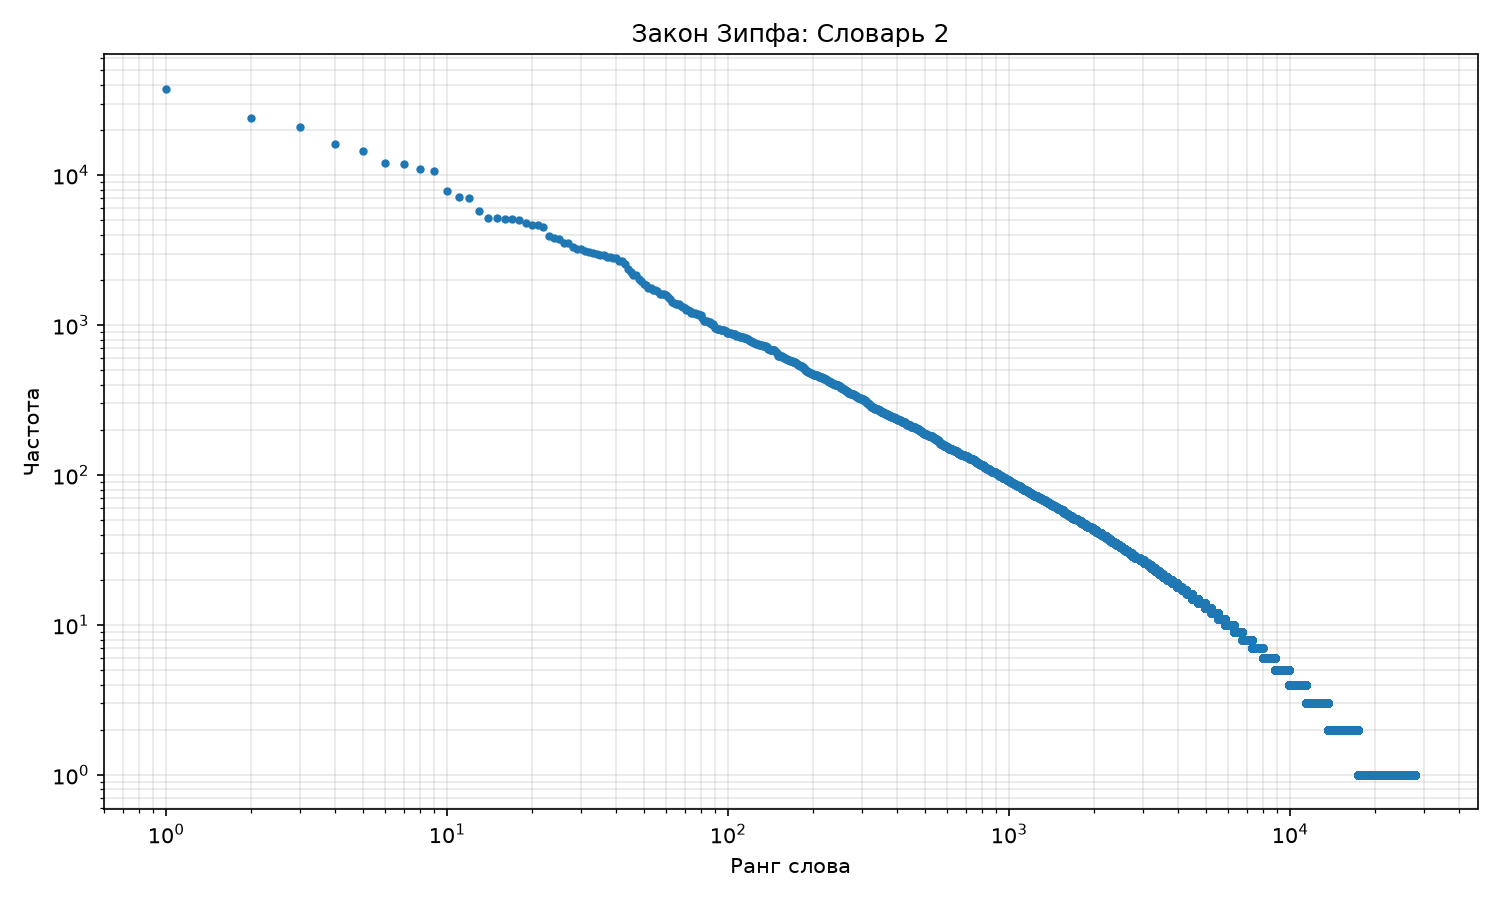
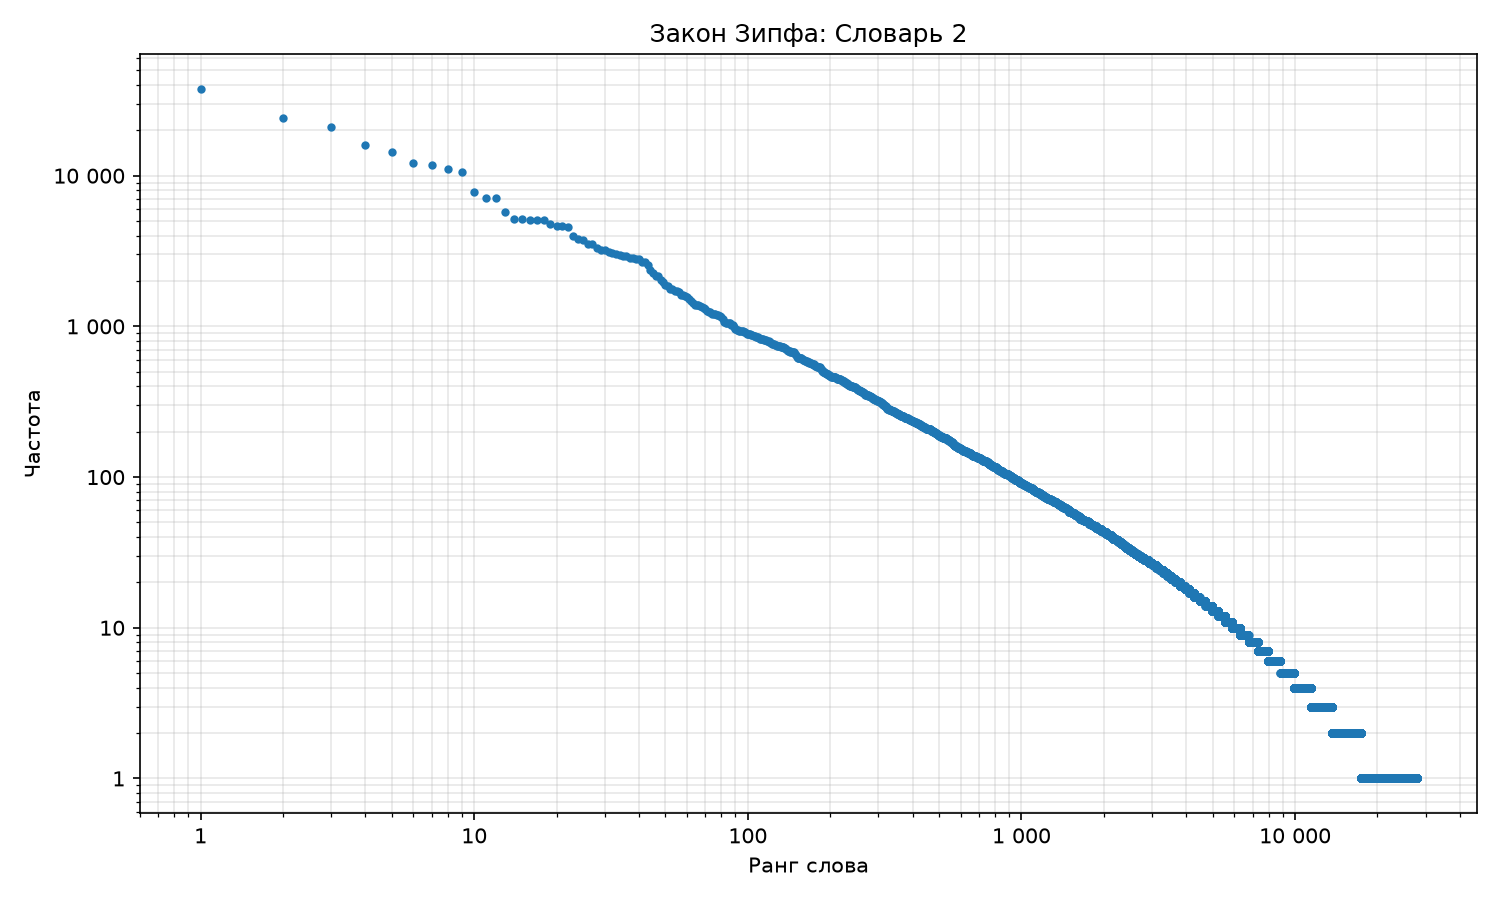
гатова

diff --git a/main2.py b/main2.py
@@ -2,6 +2,7 @@ import json
 from collections import Counter
 
 import matplotlib.pyplot as plt
+from matplotlib.ticker import FuncFormatter
 import pymorphy3
 
 
@@ -114,26 +115,34 @@ def zipf_constant(words: Counter) -> float:
     return sum(values) / len(values)
 
 
-def plot_zipf(dictionaries: dict[str, Counter]) -> None:
-    """Строит лог-лог графики зависимости частоты слова от его ранга.
 
-    Для каждого словаря — отдельная фигура, сохраняется в
-    zipf_<имя словаря>.png и показывается на экране.
-    """
+
+
+def plot_zipf(dictionaries: dict[str, Counter]) -> None:
+    """Строит диаграммы зависимости частоты слова от его ранга."""
+
+    def plot_formatter(x, _):
+        if x >= 1:
+            return f"{int(x):,}".replace(",", " ")
+        return f"{x:g}"
+
     for name, dictionary in dictionaries.items():
         items = dictionary.most_common()
-        # Ранги: 1, 2, 3, ... по убыванию частоты
         ranks = list(range(1, len(items) + 1))
-        # Соответствующие частоты
         frequencies = [count for _, count in items]
 
         plt.figure(figsize=(10, 6))
-        # loglog — обе оси в логарифмическом масштабе (закон Зипфа — прямая)
         plt.loglog(ranks, frequencies, marker=".", linestyle="none")
         plt.xlabel("Ранг слова")
         plt.ylabel("Частота")
         plt.title(f"Закон Зипфа: {name}")
         plt.grid(True, which="both", alpha=0.3)
+
+        # Обычные числа вместо степеней 10 — и для savefig, и для show
+        ax = plt.gca()
+        ax.xaxis.set_major_formatter(FuncFormatter(plot_formatter))
+        ax.yaxis.set_major_formatter(FuncFormatter(plot_formatter))
+
         plt.tight_layout()
         plt.savefig(f"zipf_{name}.png", dpi=150)
         plt.show()
